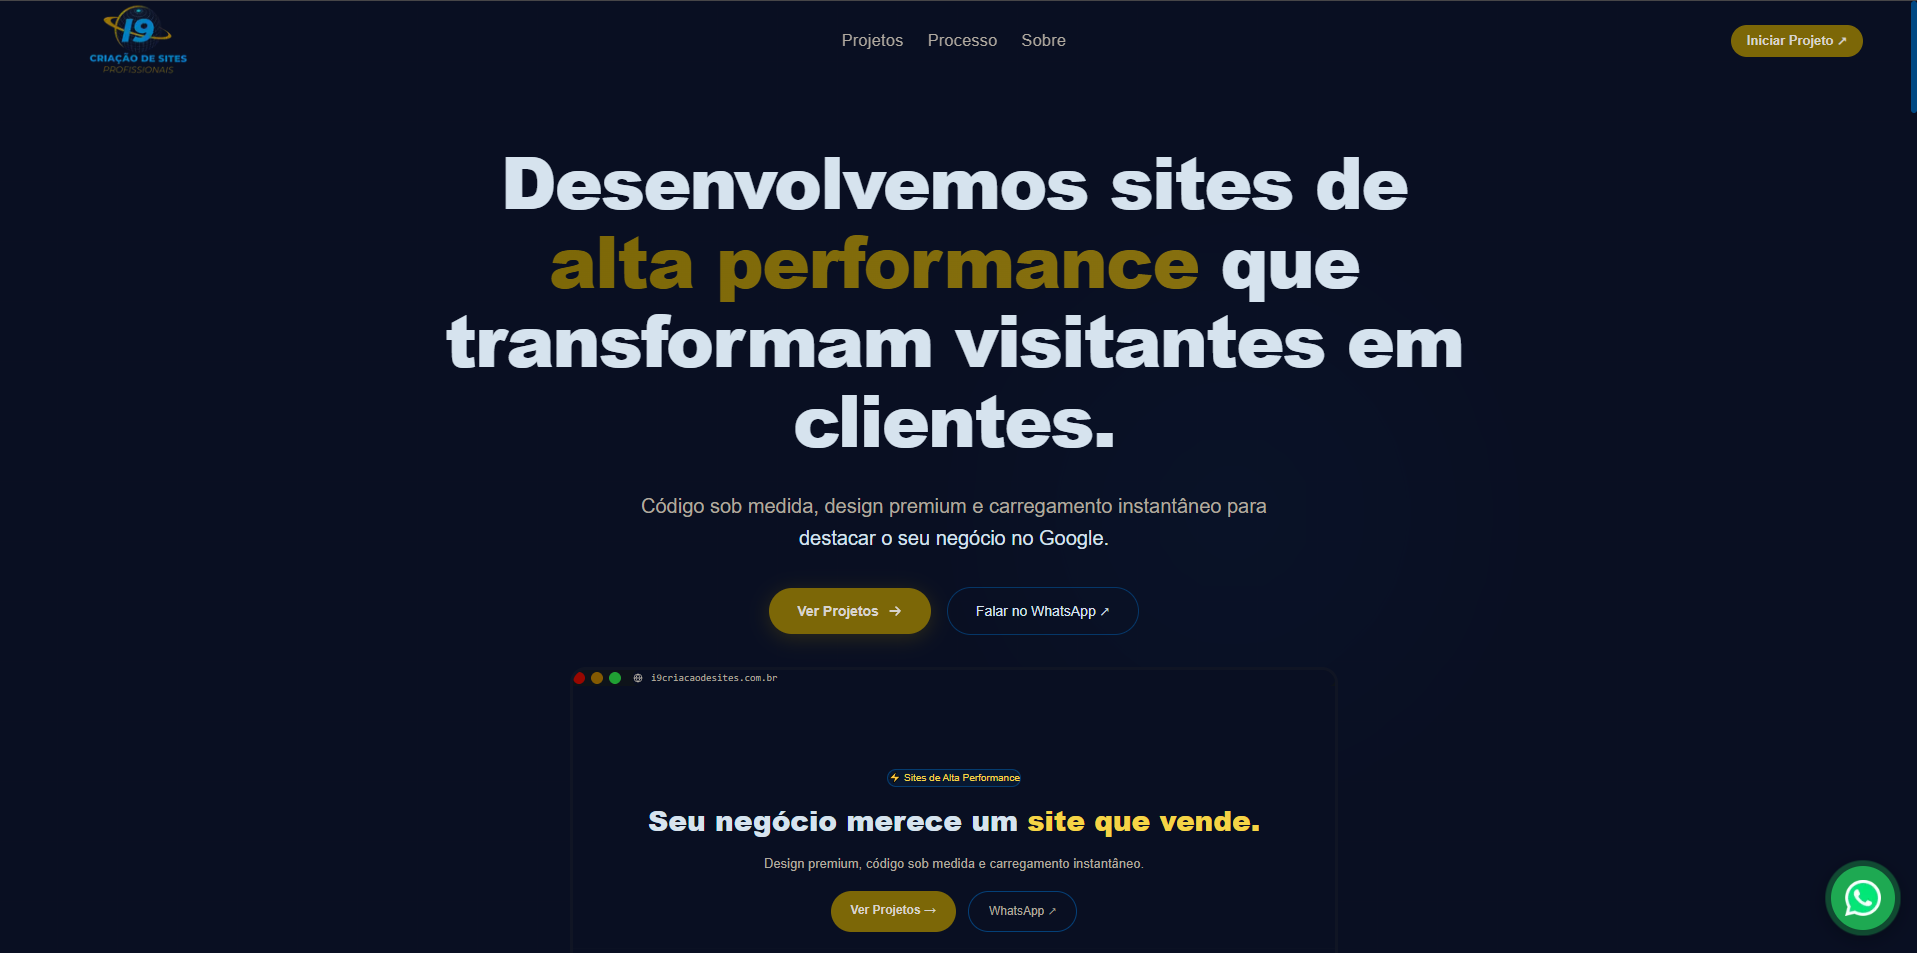
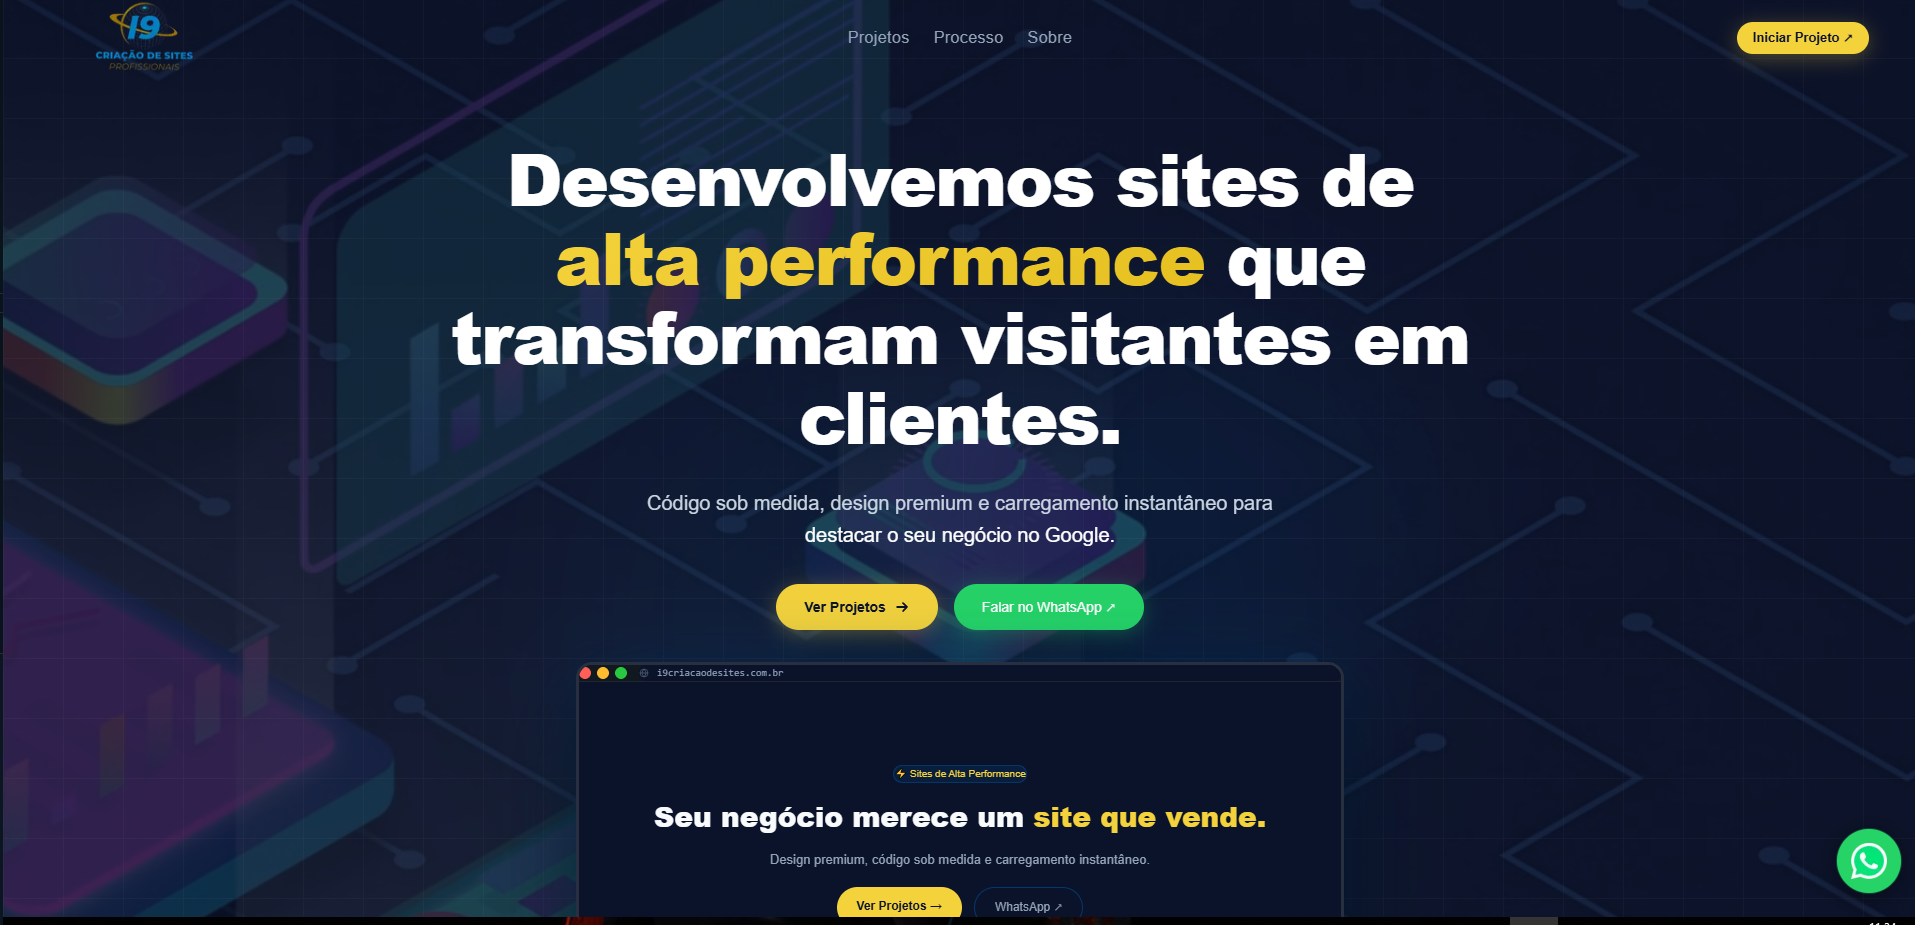
feat: adiciona novos projetos em Projects

diff --git a/src/components/Projects/Projects.tsx b/src/components/Projects/Projects.tsx
@@ -22,17 +22,20 @@ function Projects() {
   const [isOpen, setIsOpen] = useState(false);
 
   const projects = [
-    {
+  
+     {
       id: 1,
-      title: "Controle de Gastos",
+      title: "LeadFlow - Sistemas de captação de leads",
       description:
-        "Aplicação para controle financeiro pessoal com dashboard interativo em React, focada em usabilidade e design limpo.",
-      image: "/images/expense-preview.png",
-      demoUrl: "https://expense-control-five.vercel.app",
-      githubUrl: "https://github.com/adriano-rocha/expense-control",
-      technologies: ["React", "JavaScript", "Responsive"],
+        "Sistema fullsatck de geração e qualificação de leads: raspagem automatizada do Google Maps (Python/Playwright) filtra negócios sem site prórpio e ordena por prioridade de contato, com um editor visual de fluxos (react Flow) para disparo automatizado de mensagens via WhatsApp.",
+      image: "/images/leadflow.png",
+      demoUrl: "https://site-kerotur-jxe8.vercel.app/",
+      githubUrl: "https://github.com/adriano-rocha/kerotur",
+      technologies: [
+        "Node.js/Express, PostgreSQL (Prisma), React, Python/FastAPI, Evolution API",
+      ],
       status: "Finalizado",
-      color: "green",
+      color: "blue",
     },
     {
       id: 2,
@@ -50,33 +53,44 @@ function Projects() {
       status: "Finalizado",
       color: "gold",
     },
-
     {
       id: 3,
-      title: "Marcele Nutri",
+      title: "LP - Psicóloga",
       description:
-        "Landing page em Next.js para nutricionista, com identidade visual personalizada, seções de planos com toggle PIX/Cartão, FAQ, avaliação antropométrica e conformidade com LGPD.",
-      image: "/images/marcele_nutri.png",
-      demoUrl: "https://marceleasevedonutri.vercel.app/",
-      githubUrl: "https://github.com/adriano-rocha/marcele_nutri",
+        "Landing page para psicologa com Next.js, focado em conversão via whatsApp, seções de planos com toggle PIX/Cartão, FAQ, avaliação antropométrica e conformidade com LGPD.",
+      image: "/images/laura.png",
+      demoUrl: "https://landing-laura-psicologa.vercel.app",
+      githubUrl: "https://github.com/adriano-rocha/landing-psicologa",
       technologies: ["Next.js", "TypeScript", "Tailwind", "Responsive"],
       status: "Finalizado",
-      color: "red",
+      color: "gold",
     },
-    {
+     {
       id: 4,
-      title: "CRUD Fullstack (Gestão de Dados)",
+      title: "Controle de Gastos",
       description:
-        "Solução completa de gestão de dados com API e interface integradas. Demonstração de arquitetura **Node.js/Express** e persistência em **MongoDB**.",
-      image: "/images/crud-preview.png",
-      demoUrl: "https://crud-student-registration.vercel.app/",
-      githubUrl: "https://github.com/adriano-rocha/crud-fullstack",
-      technologies: ["React", "Node.js", "Express", "MongoDB", "Responsive"],
+        "Aplicação para controle financeiro pessoal com dashboard interativo em React, focada em usabilidade e design limpo.",
+      image: "/images/expense-preview.png",
+      demoUrl: "https://expense-control-five.vercel.app",
+      githubUrl: "https://github.com/adriano-rocha/expense-control",
+      technologies: ["React", "JavaScript", "Responsive"],
       status: "Finalizado",
-      color: "yellow",
+      color: "green",
+    },
+ {
+      id: 5,
+      title: "Silva Advogados - One-Page",
+      description:
+        "Site institucional para escritório de advocacia — Next, TypeScript, Tailwind CSS, SEO, CTA.",
+      image: "/images/adv.png",
+      demoUrl: "https://adv-silva.vercel.app/",
+      githubUrl: "https://github.com/adriano-rocha/one-page-lawyer",
+      technologies: ["Next", "TypeScript", "Tailwind CSS", "Responsive"],
+      status: "Finalizado",
+      color: "gold",
     },
     {
-      id: 5,
+      id: 6,
       title: "i9 Criação de Sites",
       description:
         "🚀 Portfolio institucional da i9 — Site de alta performance com SSG, SEO otimizado e animações com Framer Motion. Lighthouse Score 95+",
@@ -84,12 +98,12 @@ function Projects() {
       demoUrl: "https://portfolio-i9.vercel.app/",
       githubUrl: "https://github.com/adriano-rocha/crud-fullstack",
       technologies: ["Next.js", "TypeScript", "Tailwind CSS"],
-      status: "Em Desenvolvimento",
+      status: "Finalizado",
       color: "blue",
     },
 
     {
-      id: 6,
+      id: 7,
       title: "Quiroclínica (Site Institucional)",
       description:
         "Site institucional de **alta conversão** com design profissional e responsivo, focado em credibilidade e geração de agendamentos. Inclui sistema de **internacionalização (i18n)** para múltiplos idiomas.",
@@ -100,8 +114,20 @@ function Projects() {
       status: "Finalizado",
       color: "green",
     },
+      {
+      id: 8,
+      title: "B3 - Radar",
+      description:
+        "Dashboard de monitoramento em tempo real para o mercado financeiro (B3). Desenvolvido em Python/Streamlit, focado na análise de Blue Chips, acompanhamento de índices e alertas inteligentes de preços.",
+      image: "/images/b3radar_img.png",
+      demoUrl: "https://b3radar-market-finance.streamlit.app/",
+      githubUrl: "https://github.com/adriano-rocha/B3Radar",
+      technologies: ["Python", "Streamlit", "Responsive"],
+      status: "Em desenvolvimento",
+      color: "green",
+    },
     {
-      id: 7,
+      id: 9,
       title: "Pizzaria (Stripe)",
       description: "Site de uma pizzaria fullstack com Stripe.",
       image: "/images/pizzaria.png",
@@ -119,47 +145,56 @@ function Projects() {
       color: "red",
     },
     {
-      id: 8,
-      title: "Silva Advogados - One-Page",
-      description:
-        "Site institucional para escritório de advocacia — Next, TypeScript, Tailwind CSS, SEO, CTA.",
-      image: "/images/adv.png",
-      demoUrl: "https://adv-silva.vercel.app/",
-      githubUrl: "https://github.com/adriano-rocha/one-page-lawyer",
-      technologies: ["Next", "TypeScript", "Tailwind CSS", "Responsive"],
-      status: "Finalizado",
-      color: "gold",
-    },
-
-    {
-      id: 9,
-      title: "LeadFlow - Sistemas de captação de leads",
-      description:
-        "Sistema fullsatck de geração e qualificação de leads: raspagem automatizada do Google Maps (Python/Playwright) filtra negócios sem site prórpio e ordena por prioridade de contato, com um editor visual de fluxos (react Flow) para disparo automatizado de mensagens via WhatsApp.",
-      image: "/images/leadflow.png",
-      demoUrl: "https://site-kerotur-jxe8.vercel.app/",
-      githubUrl: "https://github.com/adriano-rocha/kerotur",
-      technologies: [
-        "Node.js/Express, PostgreSQL (Prisma), React, Python/FastAPI, Evolution API",
-      ],
+      id: 10,
+      title: "Conserta Tech",
+      description: "Site para loja de consertos de celulares e computadores",
+      image: "/images/conserta-tech.png",
+      demoUrl: "https://conserta-tech.vercel.app/",
+      githubUrl: "https://github.com/adriano-rocha/conserta-tech",
+      technologies: ["Next.js", "Tailwind", "Responsive"],
       status: "Finalizado",
       color: "blue",
     },
-    {
-      id: 10,
-      title: "LP - Psicóloga",
+  {
+      id: 11,
+      title: "Marcele Nutri",
       description:
-        "Landing page para psicologa com Next.js, focado em conversão via whatsApp, seções de planos com toggle PIX/Cartão, FAQ, avaliação antropométrica e conformidade com LGPD.",
-      image: "/images/laura.png",
-      demoUrl: "https://landing-laura-psicologa.vercel.app",
-      githubUrl: "https://github.com/adriano-rocha/landing-psicologa",
+        "Landing page em Next.js para nutricionista, com identidade visual personalizada, seções de planos com toggle PIX/Cartão, FAQ, avaliação antropométrica e conformidade com LGPD.",
+      image: "/images/marcele_nutri.png",
+      demoUrl: "https://marceleasevedonutri.vercel.app/",
+      githubUrl: "https://github.com/adriano-rocha/marcele_nutri",
       technologies: ["Next.js", "TypeScript", "Tailwind", "Responsive"],
       status: "Finalizado",
-      color: "gold",
+      color: "red",
+    },
+    {
+      id: 12,
+      title: "CRUD Fullstack (Gestão de Dados)",
+      description:
+        "Solução completa de gestão de dados com API e interface integradas. Demonstração de arquitetura **Node.js/Express** e persistência em **MongoDB**.",
+      image: "/images/crud-preview.png",
+      demoUrl: "https://crud-student-registration.vercel.app/",
+      githubUrl: "https://github.com/adriano-rocha/crud-fullstack",
+      technologies: ["React", "Node.js", "Express", "MongoDB", "Responsive"],
+      status: "Finalizado",
+      color: "yellow",
+    },
+     {
+      id:13,
+      title: "LP - Dentista",
+      description:
+        "Landing page para clínica de odontologia estética com Next.js, focada em conversão via WhatsApp, seções de Sobre, Como Funciona, Depoimentos, FAQ com parcelamento, Google Maps integrado e SEO otimizado.",
+      image: "/images/dentista.png",
+      demoUrl: "https://site-lp-dentista.vercel.app",
+      githubUrl: "https://github.com/adriano-rocha/LP-Dentista",
+      technologies: ["Next.js", "TypeScript", "Tailwind", "Responsive"],
+      status: "Finalizado",
+      color: "blue",
     },
 
+    
     {
-      id: 11,
+      id: 14,
       title: "Kerotur - Agência de Turismo",
       description:
         "Site moderno para agência de turismo com sistema de internacionalização e animações suaves usando AOS. Design responsivo e experiência premium.",
@@ -172,7 +207,7 @@ function Projects() {
     },
 
     {
-      id: 12,
+      id: 15,
       title: "Auto Brilho",
       description:
         "Site em React/Vite para loja de higienização automotiva. Em desenvolvimento, focado em velocidade de carregamento e SEO.",
@@ -184,32 +219,23 @@ function Projects() {
       color: "red",
     },
 
+  
+    
+     {
+    id: 16,
+    title: "Barbearia Kings",
+    description:
+      "Landing page premium para barbearia masculina com agendamento online via WhatsApp, galeria de cortes, depoimentos e localização integrada. Design moderno focado em atrair novos clientes.",
+    image: "/images/barber.png",
+    demoUrl: "",
+    githubUrl: "https://github.com/adriano-rocha/kings-barbearia",
+    technologies: ["Landing Page", "Agendamento Online", "SEO Local"],
+    status: "Em desenvolvimento",
+      color: "yellow",
+    
+  },
     {
-      id: 13,
-      title: "B3 - Radar",
-      description:
-        "Dashboard de monitoramento em tempo real para o mercado financeiro (B3). Desenvolvido em Python/Streamlit, focado na análise de Blue Chips, acompanhamento de índices e alertas inteligentes de preços.",
-      image: "/images/b3radar_img.png",
-      demoUrl: "https://b3radar-market-finance.streamlit.app/",
-      githubUrl: "https://github.com/adriano-rocha/B3Radar",
-      technologies: ["Python", "Streamlit", "Responsive"],
-      status: "Em desenvolvimento",
-      color: "green",
-    },
-    {
-      id: 14,
-      title: "LP - Dentista",
-      description:
-        "Landing page para clínica de odontologia estética com Next.js, focada em conversão via WhatsApp, seções de Sobre, Como Funciona, Depoimentos, FAQ com parcelamento, Google Maps integrado e SEO otimizado.",
-      image: "/images/dentista.png",
-      demoUrl: "https://site-lp-dentista.vercel.app",
-      githubUrl: "https://github.com/adriano-rocha/LP-Dentista",
-      technologies: ["Next.js", "TypeScript", "Tailwind", "Responsive"],
-      status: "Finalizado",
-      color: "blue",
-    },
-    {
-      id: 15,
+      id: 17,
       title: "To-Do List App",
       description:
         "Aplicação de lista de tarefas em React. Demonstração de gerenciamento de estado e persistência de dados local.",
@@ -221,7 +247,7 @@ function Projects() {
       color: "white",
     },
     {
-      id: 16,
+      id: 18,
       title: "SaaS - Agendamentos para Clínicas",
       description:
         "Plataforma de gestão de consultas (Next.js/Node.js). Arquitetura escalável com foco em performance, agendamento em tempo real.",
@@ -240,7 +266,7 @@ function Projects() {
       color: "blue",
     },
     {
-      id: 17,
+      id: 19,
       title: "New Gym",
       description: "Site para academia usando React, CSS puro, responsivo.",
       image: "/images/newgym-preview.png",
@@ -252,7 +278,7 @@ function Projects() {
     },
 
     {
-      id: 18,
+      id: 20,
       title: "PetShop Page",
       description:
         "Site moderno para petshop desenvolvido com Next.js, Tailwind. Interface responsiva e otimizada para melhor experiência do usuário.",
@@ -264,7 +290,7 @@ function Projects() {
       color: "yellow",
     },
     {
-      id: 19,
+      id: 21,
       title: "Dev Store (E-commerce Moderno)",
       description:
         "E-commerce moderno para demonstração de arquitetura escalável com **Next.js/TypeScript**, gerenciamento de estado e carrinho de compras.",
@@ -282,7 +308,7 @@ function Projects() {
       color: "white",
     },
     {
-      id: 20,
+      id: 22,
       title: "CRUD - Django",
       description:
         "Módulo de registro de usuários em Django/Python. Em desenvolvimento, focado em flexibilidade de dados, suporte a upload de mídia e integração com endereçamento.",
@@ -295,7 +321,7 @@ function Projects() {
     },
 
     {
-      id: 21,
+      id: 23,
       title: "Staybnb",
       description:
         "Clone do Airbnb com funcionalidades de reserva e listagem de propriedades. Arquitetura fullstack com React, Tailwind e MongoDB.",
@@ -307,7 +333,7 @@ function Projects() {
       color: "green",
     },
     {
-      id: 22,
+      id: 24,
       title: "TaskFlow - Landing Page",
       description:
         "Landing page interativa para app de produtividade. Foco em UX/UI, alta performance e responsividade em todos os dispositivos.",